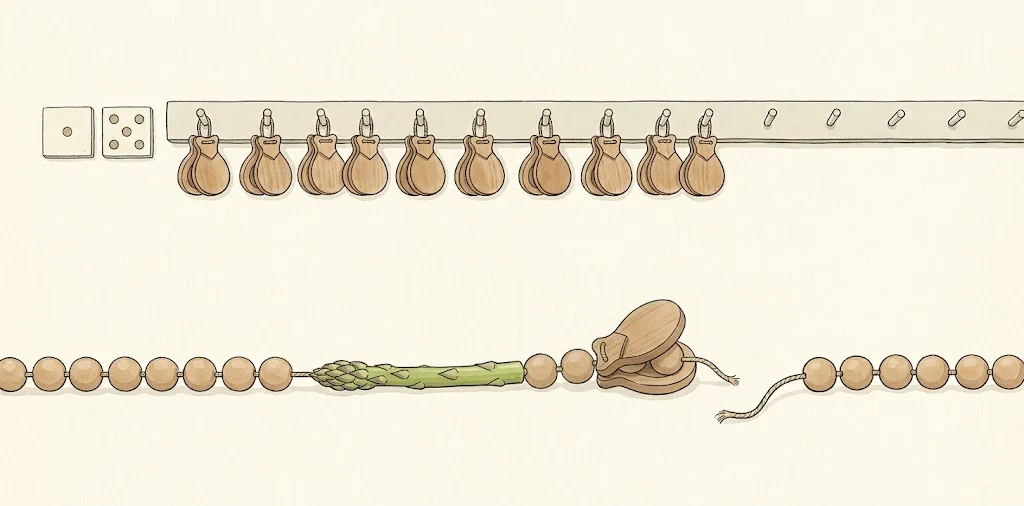
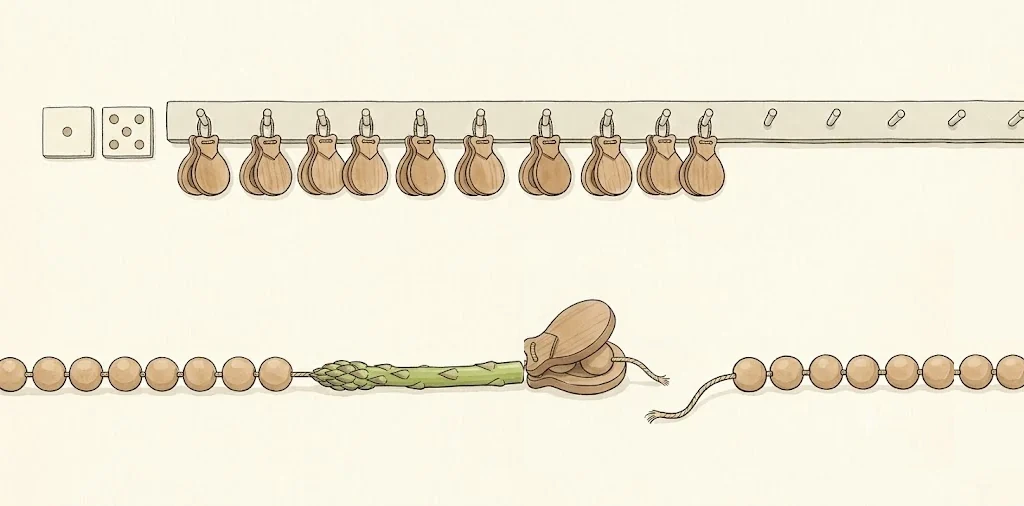
개념 논리 M — s19p02k 캐스터네츠(캐스페이스)가 아스파라거스(Asp) 뒤 셋째 구슬을 물고 그 뒤가 끊겨 있던 것 → 사이 구슬 둘을 빼 Asp 바로 뒤를 물고 거기서 끊김(2행 글과 맞음) · 손 보정
Claude-Session: https://claude.ai/code/session_01WoYBm6rvmofApXiAiUhif2

Changed region(s): [[0.5, 0.5929, 1.0, 0.83]]

diff --git a/tools/retouch/s19p02k_cut_after_asp.py b/tools/retouch/s19p02k_cut_after_asp.py
@@ -1,0 +1,24 @@
+#!/usr/bin/env python3
+"""s19p02k — 캐스터네츠(캐스페이스)가 아스파라거스(Asp) 뒤 **셋째** 구슬을 물고 그 뒤가 끊겨 있었다(logic_0929 s19p02k 2 M).
+캐스페이스는 Asp **바로 뒤** 결합을 자른다 → 아스파라거스와 캐스터네츠 사이 구슬 둘(x 524..593)을 빼고,
+그 오른쪽 띠(x ≥ 594 · y 240..470 — 위 못걸이는 y ≤ 200 이라 안 건드림)를 왼쪽으로 70px 당긴다.
+맨 오른쪽 빈 70px 는 사슬 구슬 주기(37px)의 두 배(74px) 앞 기둥을 되풀이해 채운다(사슬 띠 y 340..412 만 · 나머지는 바탕).
+사용: python3 tools/retouch/s19p02k_cut_after_asp.py <입력.png> <출력.png>"""
+import sys
+import numpy as np
+from PIL import Image
+src, out = sys.argv[1:3]
+im = Image.open(src).convert('RGB')
+assert im.size == (1024, 506), im.size
+a = np.asarray(im).copy()
+bg = np.array([251, 249, 234], dtype=np.uint8)
+X0, X1, S = 524, 594, 70
+Y0, Y1 = 240, 470
+b = a.copy()
+b[Y0:Y1, X0:1024 - S] = a[Y0:Y1, X1:1024]
+# fill right strip
+b[Y0:Y1, 1024 - S:1024] = bg
+for x in range(1024 - S, 1024):
+    b[340:412, x] = b[340:412, x - 74]
+Image.fromarray(b).save(out)
+print('saved', out)

diff --git a/tools/vision/logic_0929.md b/tools/vision/logic_0929.md
@@ -48,6 +48,7 @@
 | s28p02 | 화학독립영양 방에서 장작(= 유기물)을 땜 | 그림: 회색 원석을 땜 · 2행 |
 | s47p01 | 접합기 X · 이동기 떨어진 두 타래 | 그림: 나란한 지퍼 · X 로 걸린 두 타래 · 3·7행 |
 | s48p02 | 세포판이 벽 곁부터 · 수레가 벽 밖에서 | 그림: 가운데부터 · 수레 방 안 · 4·5행 |
+| s19p02k | 캐스터네츠가 Asp 뒤 셋째 구슬 | 손 보정: 구슬 둘 빼고 당김 — Asp 바로 뒤 |
 
 ## lb_00 (s01–s12p02b) — 서브에이전트 보고, 확인 전
 
@@ -139,7 +140,7 @@
 | s17p07 | 5–6 | NCC 문 열림 · 자물쇠는 옆 걸쇠 · 짐이 관 밖 | 티아자이드가 막는 그림이 아니다 | M | 그림 | |
 | s19p01c | 5–6 | M 쐐기 빵 1 · G2 쐐기 빵 3 | S 뒤 모두 둘 | M | 그림 | |
 | s19p02d · s19p02g | 7 · 3 | 아폽토솜 = 붉은 구슬(시토크롬 c)만의 고리 · 글도 | 바퀴는 Apaf-1 일곱(각각 cyt c 하나) | M | 그림 + 글 | s19p02d ✔ 대기열 41 과 한 라운드 — 둥글게 둘러선 잿빛 말뚝(여덟로 그려짐 · 글은 수를 안 적음) + 말뚝마다 알갱이 · 7행·본문·hooks / s19p02g 대기(41b) |
-| s19p02k | 2 | 캐스터네츠가 아스파라거스 뒤 **셋째** 구슬 | 캐스페이스는 Asp **바로 뒤** 결합을 자른다 | M | 그림 | |
+| s19p02k | 2 | 캐스터네츠가 아스파라거스 뒤 **셋째** 구슬 | 캐스페이스는 Asp **바로 뒤** 결합을 자른다 | M | 그림 | ✔ 9/29 손 보정: 아스파라거스와 캐스터네츠 사이 구슬 둘을 빼고 오른쪽을 70px 당김 — 캐스터네츠가 Asp 바로 뒤를 문다 · 2행 글은 원래 맞음 |
 | s12p03 | 4 | 열쇠 상자 케이블이 키모트립신 줄로 | 엔테로펩티데이스 → 트립신만 | m | 그림 | |
 | s13p01 · s13p02 | 1 · 3 | IgM 깃발 청록 · III 형 깃발 안쪽 청록 | 형제 판 색 규칙(청록 = IgE) | m | 그림 | |
 | s14p02 | 1 | 갠 흰 베가 중간섬유 밧줄 발치까지 | 알·베는 굵은 관에만 | m | 그림(대기열 25 에 더함) | ✔ 대기열 25 와 한 라운드(v3) — 베 폭 반, 밧줄 발치 맨바닥 |

diff --git a/tools/retouch/README.md b/tools/retouch/README.md
@@ -32,3 +32,4 @@
 | s43p02 | `s43p02_table_back.py` — 제미나이 v1(나가는 띠에 모자·술)이 작업대 띠 오른쪽의 이음매 둘(청록 조각 사이 밝은 틈)을 지움 → 작업대 띠 구간 x 490..900 × y 312..358 을 설치본에서 되옮김 · 4px 섞음 | s43p02_v1_1790694844265.png |
 | s37p02 | `s37p02_spool_thread.py` — 제미나이 v1(세균 맨 실 → 닫힌 고리)이 오른쪽 실패 줄의 풀린 실 끝(= 선형 · 진핵)을 지움 → x 878..948 × y 468..494 를 설치본에서 되옮김 · 3px 섞음 | s37p02_v1_1790695161994.png |
 | s11p03 | `s11p03_keep_top_bottom.py` — 제미나이 v1(가운데 벽 NER 윗켜만 도려냄)이 위 벽(BER) 오른쪽 끝의 망치로 얹는 새 벽돌을 지우고 은빛 조각을 그림 · 아래 벽도 조금 바꿈 → 가운데 판(y 380..748)만 v1 · 위·아래는 설치본 · 이음매 8px(빈 바탕) | s11p03_v1_1790695506310.png |
+| s19p02k | `s19p02k_cut_after_asp.py` — 개념 논리 M: 캐스터네츠(캐스페이스)가 아스파라거스(Asp) 뒤 셋째 구슬을 물던 것 → 사이 구슬 둘(x 524..593)을 빼고 오른쪽 띠(y 240..470)를 70px 당김 · 맨 오른쪽은 구슬 주기 37px 의 두 배 앞을 되풀이 · 위 못걸이(y ≤ 200)는 그대로 · 그림 1024×506 | 설치본 |
